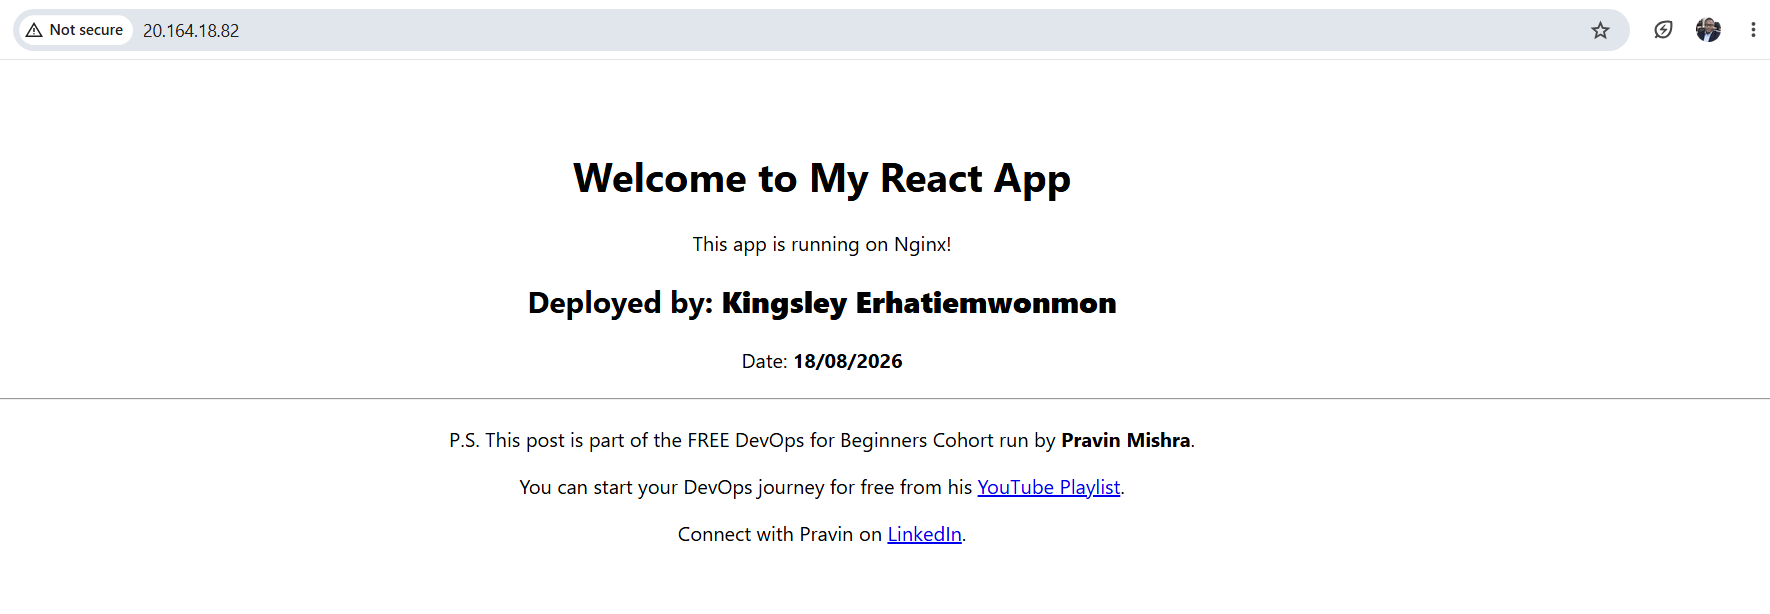
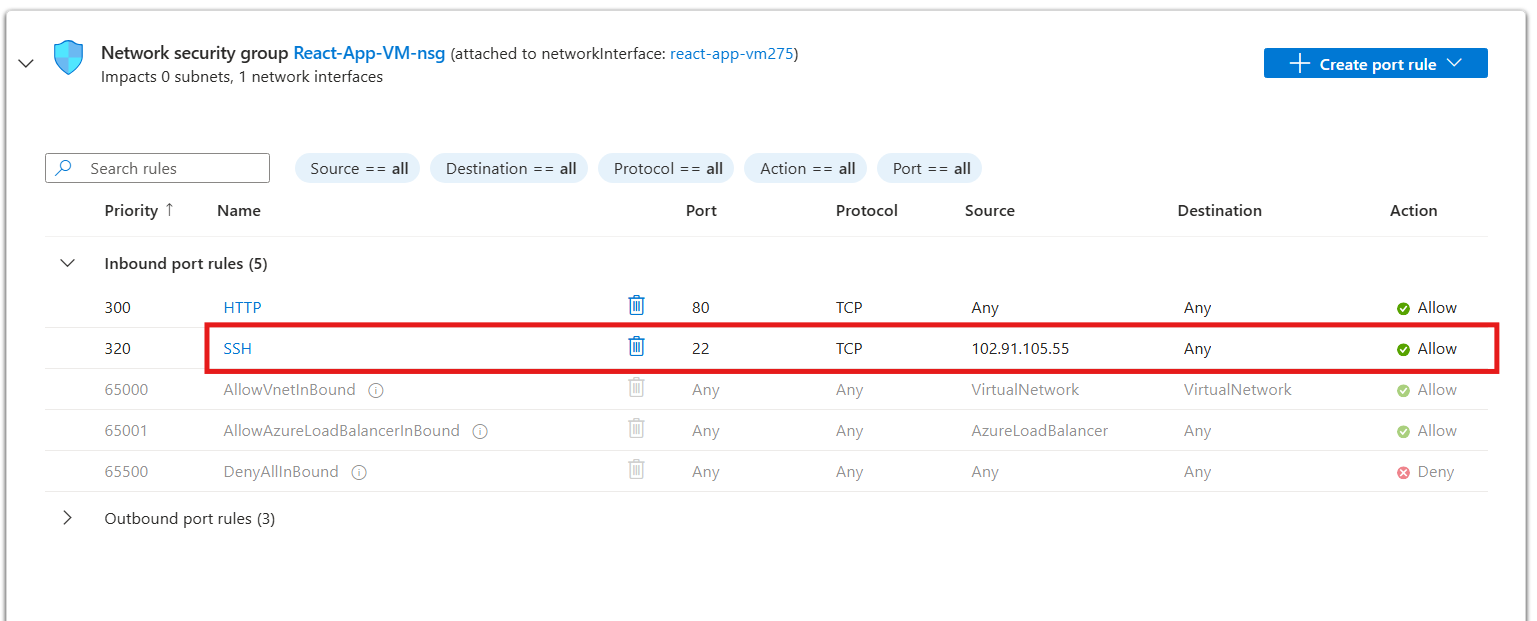
Week 07 Assignment in Progress

diff --git a/README.md b/README.md
@@ -3,8 +3,8 @@
 ![Cohort](https://img.shields.io/badge/Cohort-3-blue?style=for-the-badge)
 ![Program](https://img.shields.io/badge/DevOps_Micro_Internship-Pravin_Mishra-orange?style=for-the-badge)
 ![Status](https://img.shields.io/badge/Status-In_Progress-yellow?style=for-the-badge)
-![Weeks](https://img.shields.io/badge/Weeks_Completed-6%2F15-green?style=for-the-badge)
-![Weeks](https://img.shields.io/badge/Weeks_Completed-6%2F14-green?style=for-the-badge)
+![Weeks](https://img.shields.io/badge/Weeks_Completed-7%2F15-green?style=for-the-badge)
+![Weeks](https://img.shields.io/badge/Weeks_Completed-7%2F14-green?style=for-the-badge)
 
 > 👋 **New here?** Read the [submission instructions](./onboarding) first — how to fork, fill in, and submit your assignments.
 > Find all the required links & assignment guidelines from here [Required links](./dmi_cohort3_resources.md)
@@ -50,7 +50,7 @@ This is not a course. It is an internship-style program — real deployments, re
 
 <!-- Add your cohort leaderboard rank here as you progress -->
 
-> 🥇 Cohort 3 Rank: **#_3_** <!-- Update this each week -->
+> 🥇 Cohort 3 Rank: **#_01_** <!-- Update this each week -->
 
 ---
 
@@ -88,8 +88,8 @@ Week 05 → DevOps Lifecycle & Agile
 
 Week 06 → AWS Cloud
 [![Week 06 – AWS](./badges/week-06.svg)](./week-06-aws-cloud/)
-<!-- Week 07 → Azure Cloud -->
-<!-- [![Week 07 – Azure](./badges/week-07.svg)](./week-07-azure-cloud/) -->
+Week 07 → Azure Cloud
+[![Week 07 – Azure](./badges/week-07.svg)](./week-07-azure-cloud/)
 
 <!-- Week 08 → Terraform -->
 <!-- [![Week 08 – Terraform](./badges/week-08.svg)](./week-08-terraform/) -->
@@ -136,7 +136,7 @@ Week 06 → AWS Cloud
 | 04 | Git & GitHub | ✅ Completed | ✅ Completed | https://www.linkedin.com/posts/kingsley-erhatiemwonmon_devops-aws-git-ugcPost-7486084742434697217-Wqx_/?utm_source=share&utm_medium=member_desktop&rcm=ACoAAClDkSEBa4Zo6dTWVIEEl8FJLczvH_zPHtY | https://kingzcloud.hashnode.dev/from-git-init-to-ai-assisted-devops|
 | 05 | DevOps Lifecycle & Agile | ✅ Completed | ✅ Completed | https://www.linkedin.com/posts/kingsley-erhatiemwonmon_devops-cloudengineering-jira-ugcPost-7490267628687671296-pg76/?utm_source=share&utm_medium=member_desktop&rcm=ACoAAClDkSEBa4Zo6dTWVIEEl8FJLczvH_zPHtY | https://kingzcloud.hashnode.dev/from-jira-to-ec2-project |
 | 06 | AWS Cloud | ✅ Completed | ✅ Completed | https://www.linkedin.com/posts/kingsley-erhatiemwonmon_devops-aws-cloudengineering-ugcPost-7494461921476362240-bufX/?utm_source=share&utm_medium=member_desktop&rcm=ACoAAClDkSEBa4Zo6dTWVIEEl8FJLczvH_zPHtY | https://kingzcloud.hashnode.dev/production-style-aws-deployment |
-| 07 | Azure Cloud | ⬜ Not Started | ⏳ Pending | — | — |
+| 07 | Azure Cloud | ⬜ In Progress | In Progress | — | — |
 | 08 | Terraform | ⬜ Not Started | ⏳ Pending | — | — |
 | 09 | Ansible | ⬜ Not Started | ⏳ Pending | — | — |
 | 10 | Azure DevOps (CI/CD) | ⬜ Not Started | ⏳ Pending | — | — |
